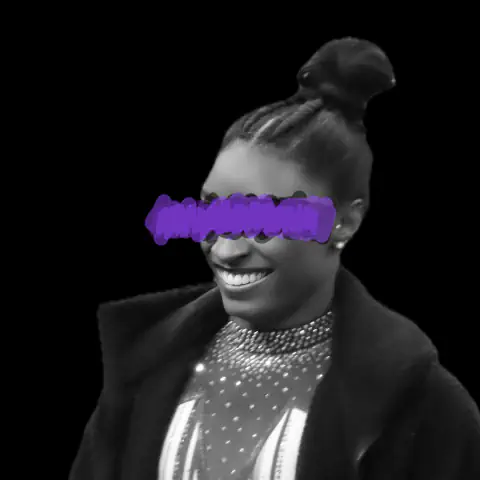
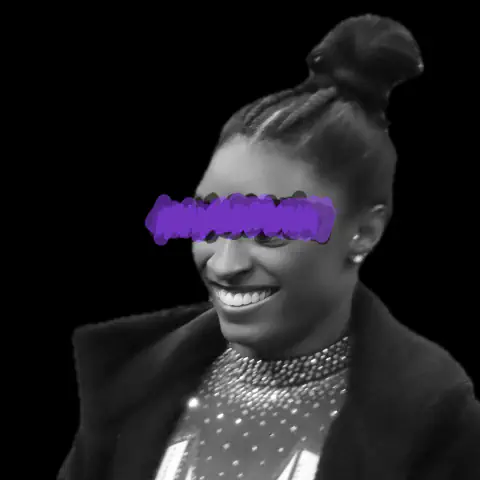
Align Simone Biles portrait with eye line

diff --git a/docs/content-analysis/portrait-sources/2026-08-25-real-photo-replacements.md b/docs/content-analysis/portrait-sources/2026-08-25-real-photo-replacements.md
@@ -25,3 +25,7 @@ off-center. No pixels were generated or reconstructed during the alignment pass.
 On 2026-08-26, Alexandr Wang's subject height was increased from 1280px to 1650px while retaining
 the same landmark anchors. This makes his face approximately 29% larger without changing the
 source photograph, template, or processing method.
+
+Also on 2026-08-26, Simone Biles's subject height was increased from 1320px to 1550px. Her face
+center remains at x=540, and her measured eye line is placed at y=510 inside the unchanged purple
+band. The authentic source photograph and all other processing constraints remain unchanged.
